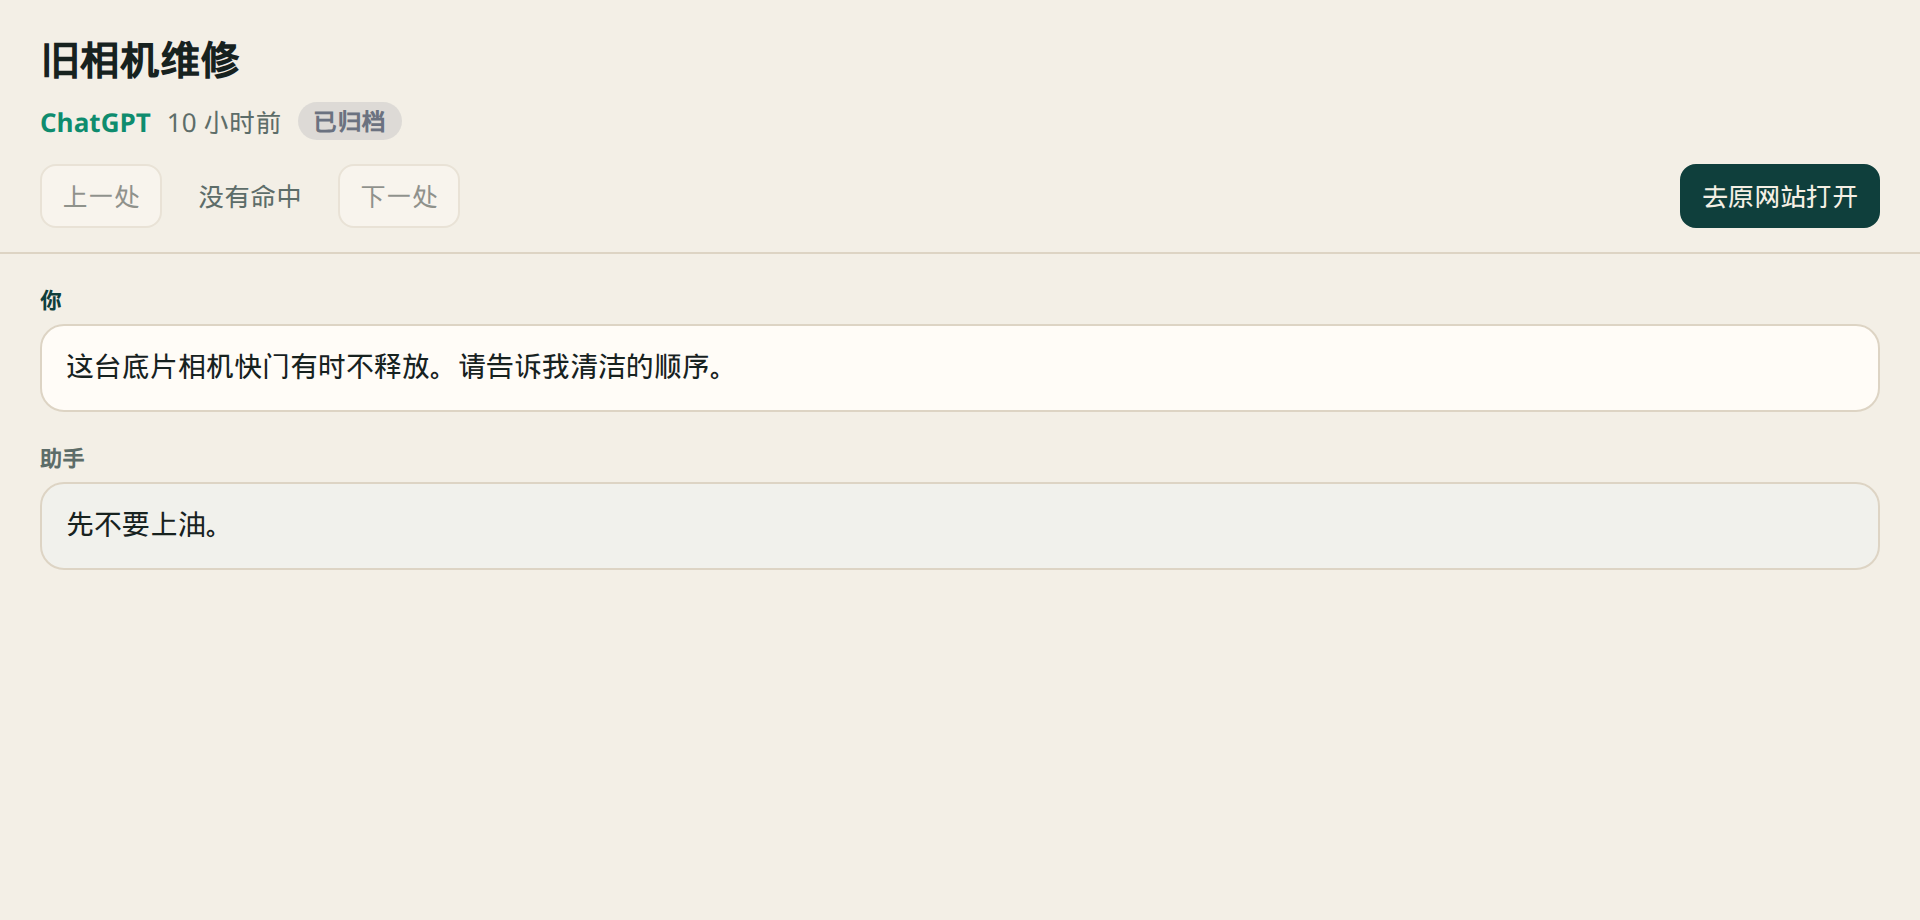
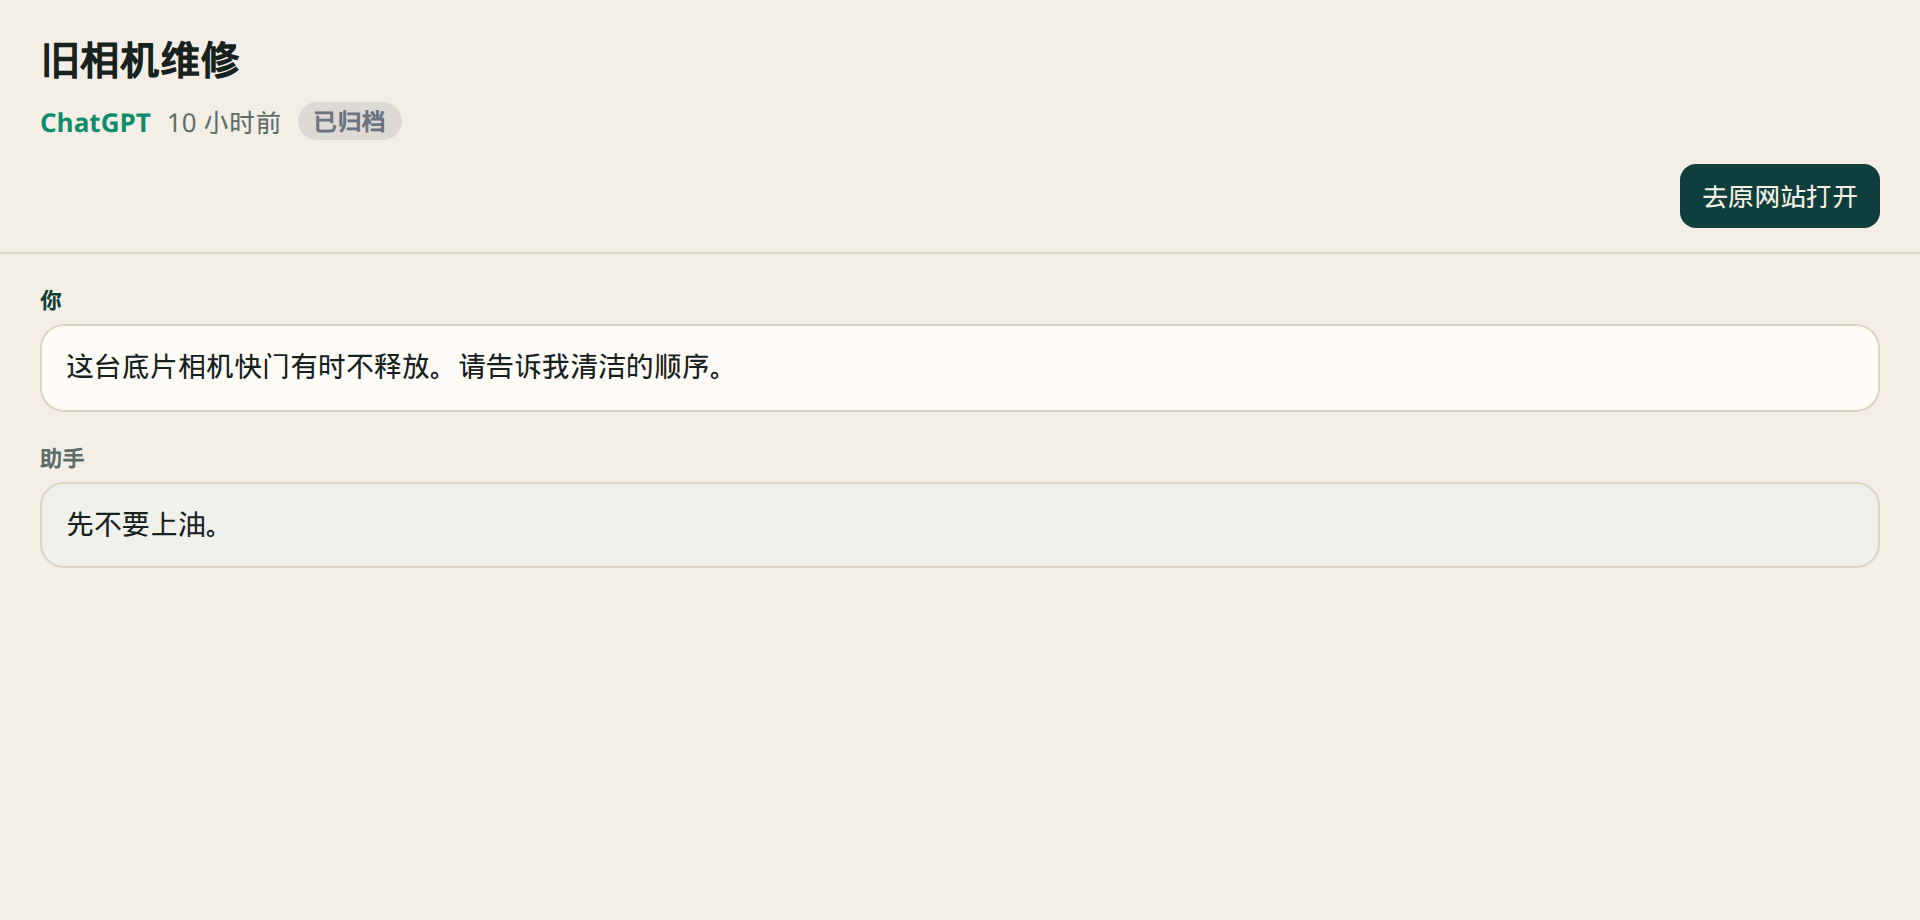
Docs: 1.5.0 notes and screenshots match the reviewed reader and sort

Changed region(s): [[0.0312, 0.6087, 0.9688, 0.6391], [0.0938, 0.1826, 0.1562, 0.2435]]

diff --git a/README.md b/README.md
@@ -22,11 +22,11 @@
 - **页签从左到右**：默认停在「活跃中」（四家里还没封存的）。接着是 ChatGPT、Claude、Grok、Gemini（只看这一家、且未封存），然后是「已封存」，「全部」在最后。搜索只搜当前页签里的对话。
 - **搜正文，不只搜标题**：英文和数字按完整词匹配（`musicmap` 能中，`music` 不会误中 `musicmap`），中文按单字和相邻双字建索引；多个词要出现在同一段对话里。
 - **标题下有一两行预览**：没在搜索时显示你的第一条提问（没有提问就显示最后一条消息），方便认出是哪段对话。搜索时显示命中词附近的一小段，并把命中的词标出来。库里只有标题、没有正文时，会标明「仅有标题」。
-- **本机阅读页**：每一行可以点「阅读」，也可以点预览。浏览器会新开一个分页，只读这台电脑 IndexedDB 里的标题、平台、日期和已收录消息，不连接四家网站。从搜索进来时，第一处命中是黄底，页顶可以上一处、下一处。页顶的「去原网站打开」才回到原来的网址（Gemini 的 `/u/数字/` 会保留）。聊天文字按纯文本显示，不会当成网页去执行。
+- **本机阅读页**：每一行可以点「阅读」，也可以点预览。浏览器会新开一个分页，只读这台电脑 IndexedDB 里的标题、平台、日期和已收录消息，不连接四家网站。从搜索进来时，第一处命中是黄底，页顶可以上一处、下一处。页顶的「去原网站打开」才回到原来的网址（Gemini 的 `/u/数字/` 会保留），而且只打开 ChatGPT、Claude、Grok、Gemini 这几个网站的 https 地址。聊天文字按纯文本显示，不会当成网页去执行。
 - **当前这段对话有绿框**：侧栏里正在打开的那一行用绿色边框标出，换标签或在页面里点进另一段会跟着走。
 - **封存仍可搜**：页面上明确标成已封存的对话留在索引里，带灰色「已封存」标签。目前只有 ChatGPT 有这种明确标记（封存列表，或打开后的封存横幅／取消封存按钮）。从侧栏消失不会改状态，也不会自动删。之后又在未封存的页面上看到，会恢复成活跃。
 - **从索引移除**：每一行右上角有一个圆形叉。平常比较淡，鼠标停在这一行或用键盘聚焦时变清楚。悬停提示仍是「从索引移除」（其他语言用各自的译文）。确认后，才从这台浏览器的索引里删掉这一段（对话、消息、倒排索引一起删）。网站上的聊天不动。网站侧栏里还列着它也不会被加回来；以后在网站上再打开这一段，才会重新收进来。
-- **列表排序**：默认按最后对话时间，新的在前。也可以按标题、收录时间或消息数，并切换方向。最后对话时间里，确切时间在前，「约」「早于」「日期未知」依次在后，正序反序都不把不确定的日期排到确切时间前面。搜索时默认改成相关度（本地按标题、连续短语、用户或助手、以及有上限的命中次数加分），清空后回到原来的排序。这个选择跟语言一样记在侧栏页面里，各个页签共用。
+- **列表排序**：默认按最后对话时间，新的在前。也可以按标题、收录时间或消息数，并切换方向。最后对话时间里，确切时间在前，「约」「早于」「日期未知」依次在后，正序反序都不把不确定的日期排到确切时间前面。搜索时默认改成相关度（本地按标题、连续短语、用户或助手、以及有上限的命中次数加分；标题要含整个查询才算标题命中），清空后回到原来的排序。这个选择跟语言一样记在侧栏页面里，各个页签共用。
 - **按最后活动时间排**：日期尽量取对话的最后活动时间，不拿收录时间冒充，规则见下方「侧栏日期怎么读」。
 - **收不到会提示**：对话页连续约 8 秒一条消息都没读到时，侧栏底部会提示「页面可能改版」，工具栏图标出现「!」。
 - **界面语言**默认跟随浏览器，侧栏右上角也可以手动切换，选择会记在这台浏览器里。内置繁体中文、简体中文、English、日本語、한국어、español、français、Deutsch、português（巴西）。日期用该语言的 `Intl` 格式；「约」「早于」「日期未知」也会跟着翻。扩展在 `chrome://extensions` 上的名称和说明跟随浏览器语言。
@@ -93,7 +93,7 @@
 - **Gemini 页面上没有时间。** 没在开着的标签页里发过新消息的 Gemini 对话，大多会显示「日期未知」。
 - **网站改版会让收录失效。** 健康提示能发现「对话页一条消息都没读到」，但选择器要靠更新修。
 - **搜索是整词，不做词干。** `music` 不会命中 `musicmap`。阅读页的黄底用同一套规则。
-- **阅读页只显示已经收录的消息。** 没在网页上滚到的更早内容不会出现。它不把文字排成完整 Markdown，只保留换行，并把三个反引号围起来的代码块用等宽字显示。1.5.0 之前就收进来、之后没再打开过的对话，消息顺序按收录时间；再打开一次原对话后，会按页面顺序排。
+- **阅读页只显示已经收录的消息。** 没在网页上滚到的更早内容不会出现。它不把文字排成完整 Markdown，只保留换行，并把三个反引号围起来的代码块用等宽字显示。1.5.0 之前就收进来、之后没再打开过的对话，消息顺序按收录时间，同一瞬间收进来的几条之间先后可能不准；再打开一次原对话，看到的那几条会按页面顺序排。
 - **封存标记目前只有 ChatGPT。** Claude 的普通对话、Grok、Gemini 页面上没有可靠的「这段已封存」横幅或封存列表，所以这三家不会被标成已封存。侧栏里消失不等于封存。ChatGPT 的措辞或 DOM 若改了，检测会停下来，不会凭猜测去标。
 
 ## 范围

diff --git a/notes/CHANGELOG-1.5.0.md b/notes/CHANGELOG-1.5.0.md
@@ -7,21 +7,22 @@
 - 每一行有「阅读」。点它，或点标题下面的预览，用 `chrome.tabs.create` 打开 `reader/index.html`（不需要 `tabs` 权限）。点标题仍回到原来的网站。
 - 阅读页只读 IndexedDB：标题、平台、日期（仍是「约」「早于」「日期未知」那套）、已收录的全部消息。用户和助手分开标。
 - 从搜索结果进来时，地址里带着查询。第一处命中滚进画面并黄底高亮；页顶「上一处」「下一处」在两端停住，不绕回。高亮用文本节点和 `<mark>`，英文整词、中文按字，和侧栏同一套规则。
-- 「去原网站打开」使用收录时存下的网址，不重新拼。Gemini 的 `/u/数字/` 还在。
+- 「去原网站打开」使用收录时存下的网址，不重新拼。Gemini 的 `/u/数字/` 还在。只打开 `host_permissions` 里那几个网站的 https 地址；别的网站、`javascript:`、`data:`、带账号密码或端口的地址都不显示这个按钮。
+- 不是从搜索进来时，不显示命中计数和上一处／下一处。
 - 只有标题、没有消息时，页上写「仅有标题，未收录消息」，并仍可去原网站，不是空白页。
 - 已封存的对话照样能读。页顶灰色标签沿用 1.4.0 的文案：繁体「已封存」，简体「已归档」。
 - 聊天正文只当纯文本。换行保留，三个反引号围起来的代码块用等宽字。不解析 HTML，不执行脚本，不加载正文里的图片地址。
-- 上千条消息只把视口附近的一段放进 DOM，其余留在内存里。
+- 上千条消息只把视口附近的一段（最多 60 条）放进 DOM，其余留在内存里。放进来的消息按正常文档流排，上下用占位块撑出总高度；每次换段都量一次实际高度，长消息不会叠在一起，往上滚时视口里那条消息不跳。跳到还没渲染的命中时，先把那条消息放进来、量好高度，再滚过去。
 - 对话已经从索引移除时，阅读页说明它不在本机索引里。不会把 `removed:<id>` 记号清掉，也不会把对话加回来。
 - 阅读页跟随侧栏的语言选择（`localStorage` 键 `chatseek.uiLocale`）。九种语言的新文案都在 `_locales/`。
 
 ## 消息顺序
 
-收录时把当时页面上的消息 id 顺序记在对话的 `messageOrder` 字段上（普通字段，不升数据库版本）。之后再滚出更早的消息，会按重叠的 id 嵌进这条顺序。1.5.0 之前的旧记录没有这个字段，阅读页先按收录时间排；再次打开原对话并收录到消息后，会写成页面顺序。
+收录时把当时页面上的消息 id 顺序记在 `meta` 表的 `order:<对话 id>` 一行里，不放在对话记录上，所以侧栏列表和搜索扫描对话时不会多读这一大串 id。不升数据库版本。从索引移除时这一行一起删；健康记录只读 `health:` 开头的行。之后再滚出更早的消息，会按重叠的 id 嵌进这条顺序。每条消息另外记 `captureIndex`（这次收录里它在页面上的位置），正文流式变长时保留原来的 `capturedAt` 和 `captureIndex`。阅读页先按收录时间、再按 `captureIndex` 排，然后只在 `messageOrder` 里那些消息原来占的位置之间按页面顺序重排。1.5.0 之前的旧记录没有这两个字段：先按收录时间排，同一毫秒里的几条只能按 id 排，可能不准；再次打开原对话后，看到的那几条按页面顺序排，没看到的更早消息仍留在前面，不会被挤到最后。
 
 ## 侧栏排序
 
-列表可以按最后对话时间（默认，新的在前）、标题、收录时间或消息数排序，每种都能反过来。最后对话时间里，确切时间在前，然后是「约」，再是「早于」，「日期未知」始终在最后；正序反序只改变每一档内部的顺序。正在搜索时默认改成相关度，清空搜索后回到原先保存的排序。相关度是本地加分，不用模型：标题命中最重，连续短语高于拆开的词，用户消息高于助手回复，命中条数有上限，分数相同则较新的在前。权重在 `src/sort-list.js` 的 `RELEVANCE_WEIGHT`。选择记在侧栏自己的 `localStorage`（`chatseek.listSort`），活跃、平台、已封存、全部共用。算分只看搜索已经读到的倒排记录和标题，不把消息正文再读一遍。
+列表可以按最后对话时间（默认，新的在前）、标题、收录时间或消息数排序，每种都能反过来。最后对话时间里，确切时间在前，然后是「约」，再是「早于」，「日期未知」始终在最后；正序反序只改变每一档内部的顺序。正在搜索时默认改成相关度，清空搜索后回到原先保存的排序。相关度是本地加分，不用模型：标题命中最重（查询里每个词都要在标题里，一个中文字或两个词里的一个不算），连续短语高于拆开的词，用户消息高于助手回复，命中条数有上限，分数相同则较新的在前。一条消息只含查询的一部分词时，按它含有的比例算那条消息的分。相关度的方向写「高→低／低→高」，不是「多→少」。权重在 `src/sort-list.js` 的 `RELEVANCE_WEIGHT`。选择记在侧栏自己的 `localStorage`（`chatseek.listSort`），活跃、平台、已封存、全部共用。算分只看搜索已经读到的倒排记录和标题，不把消息正文再读一遍。
 
 ## 侧栏移除按钮
 

diff --git a/notes/HANDOFF-1.5.0.md b/notes/HANDOFF-1.5.0.md
@@ -16,9 +16,9 @@
 
 相关度是本地加分，不用模型，也不用向量。权重都在 `src/sort-list.js` 的 `RELEVANCE_WEIGHT`，只改那一处：
 
-- `TITLE` 10000：标题里出现查询。高于「短语 + 命中上限」。
+- `TITLE` 10000：标题里有整个查询，或查询里每个词都在标题里（英文整词，中文子串）。查「红叶」时标题只有「叶」，或查两个词时标题只有一个，都不算。高于「短语 + 命中上限」。
 - `PHRASE` 1000：标题里有连续的整句，或同一条消息里词的位置能对上整句（含中文连续字）。高于把命中上限全部算成用户消息。拆开的词、拆开的二字词不加这一档。
-- `USER` 100：一条用户消息命中。高于把命中上限全部算成助手回复。
+- `USER` 100：一条用户消息含有查询的全部词。高于把命中上限全部算成助手回复。只含一部分词时按比例给分，例如查「咖啡馆」时只有「咖啡」的那条是 3/5。
 - `ASSISTANT` 10：一条助手回复命中。旧索引没有角色时按助手算。
 - `HIT_CAP` 8：最多几条消息计入命中分。再长的对话也不会靠条数压过上面两档。
 - `POSITION_CAP` 32：每个词在一条来源里记下的位置个数，用来判断是不是连续短语，不加进分数。
@@ -33,7 +33,7 @@
 2. 打开侧栏。每一行标题旁边应有「阅读」（英文界面是 Read）。点「阅读」或点标题下的预览，应新开一个分页，页面是 Chatseek 自己的，不是 ChatGPT 网站。排序默认是「最后对话时间」、新的在前。改成标题或消息数，并切换方向。换到已封存或全部，再关掉侧栏重新打开，选择应还在。
 3. 这个分页里能看到标题、是哪一家、日期，以及已经收录的消息。你写的和对方回的要能分开。消息里如果有网址或 `<img>` 这类字，只是文字，不要变成图片，也不要弹出窗口。
 4. 回到侧栏，搜一个你记得的词。排序应改成「相关度」。清空搜索后，回到第 2 步保存的那种排序。再点「阅读」。阅读页应跳到第一处黄底，页顶能看到「上一处」「下一处」和类似 `1 / 3` 的计数。到第一处时「上一处」停住，到最后一处时「下一处」停住。
-5. 点「去原网站打开」。应打开原来的那段聊天。如果是 Gemini，网址里的 `/u/数字/` 应还在。
+5. 点「去原网站打开」。应打开原来的那段聊天。如果是 Gemini，网址里的 `/u/数字/` 应还在。只从侧栏点「阅读」进来、没有搜索时，页顶不应有上一处／下一处。
 6. 找一条标着「仅有标题，未收录消息」的对话，点「阅读」。页上应有这句话和「去原网站打开」，不要是一片空白。
 7. 打开一条已封存的对话的阅读页。页顶应有灰色标签（简体「已归档」，繁体「已封存」），消息仍在。再找一条对话，点该行右上角的圆形叉（悬停或键盘聚焦时比较清楚；提示仍是「从索引移除」）并确认。如果还留着它的阅读页，刷新后应写这段已经不在本机索引里。回到侧栏，不要点开网站上的那一段，它不应自己出现。
 8. 侧栏右上角把语言改成 English 或繁體中文，再开一次阅读页。按钮和「仅有标题」应跟着变。改回「跟随浏览器」后，阅读页也跟着浏览器语言。
@@ -48,8 +48,8 @@ npm run test:gemini
 npm run test:upgrade
 ```
 
-`scripts/reader-test.mjs`（含在 `test:search` 里）：纯文本和代码块、`<img onerror>` / `<script>` 不会变成元素、外部图片地址不会变成 `src`、命中上一处／下一处到头停住、英文整词和中文、仅标题、封存标签、Gemini `/u/N/`、移除后的记号不会被阅读页清掉、3000 条只渲染视口附近的节点。
+`scripts/reader-test.mjs`（含在 `test:search` 里）：纯文本和代码块、`<img onerror>` / `<script>` 不会变成元素、外部图片地址不会变成 `src`、「去原网站打开」只接受四个网站的 https 地址（与 `host_permissions` 一致）、没有搜索时不显示命中控件、命中上一处／下一处到头停住、英文整词和中文、在 3000 条里跨段跳到第 40／1500／2960 条的命中、仅标题、封存标签、Gemini `/u/N/`、移除后的记号不会被阅读页清掉、3000 条只渲染视口附近的节点、旧记录同一毫秒内按页面位置排、重开旧对话后较早的消息仍在前面。
 
-`scripts/relevance-test.mjs`（也在 `test:search` 里）：标题高于强正文、连续短语高于拆开的中文词、一条用户消息高于一长串助手回复、命中条数先加分再在上限停住、分数相同则较新的在前，以及相关度方向会颠倒分数不同的顺序。
+`scripts/relevance-test.mjs`（也在 `test:search` 里）：标题高于强正文、标题只含一个中文字或两个词中的一个不算标题命中、连续短语高于拆开的中文词、一条用户消息高于一长串助手回复、命中条数先加分再在上限停住、分数相同则较新的在前，以及相关度方向会颠倒分数不同的顺序。
 
 示例截图用 `node scripts/screenshot-reader.mjs` 重做。它用本机 Chrome 打开扩展页面，写入假索引，不登录任何网站。
